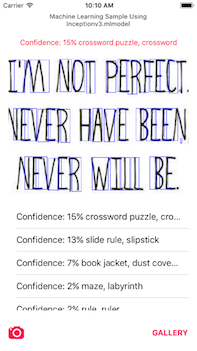
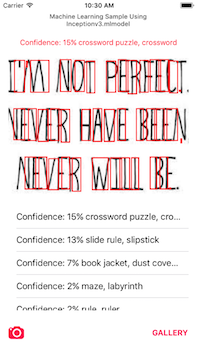
screenshots added

Changed region(s): [[0.0609, 0.1709, 0.9137, 0.5698], [0.4264, 0.0, 0.5787, 0.0285], [0.9137, 0.3989, 0.9442, 0.4274]]

diff --git a/MachineLearningSample-ObjC/ViewController.m b/MachineLearningSample-ObjC/ViewController.m
@@ -117,8 +117,8 @@
             CAShapeLayer *layer = [CAShapeLayer layer];
             
             layer.frame = CGRectMake(origin.x, origin.y, size.width, size.height);
-            layer.borderColor = [UIColor blueColor].CGColor;
-            layer.borderWidth = 1.5;
+            layer.borderColor = [UIColor redColor].CGColor;
+            layer.borderWidth = 2;
             
             [self.sourceImgView.layer addSublayer:layer];
         }
